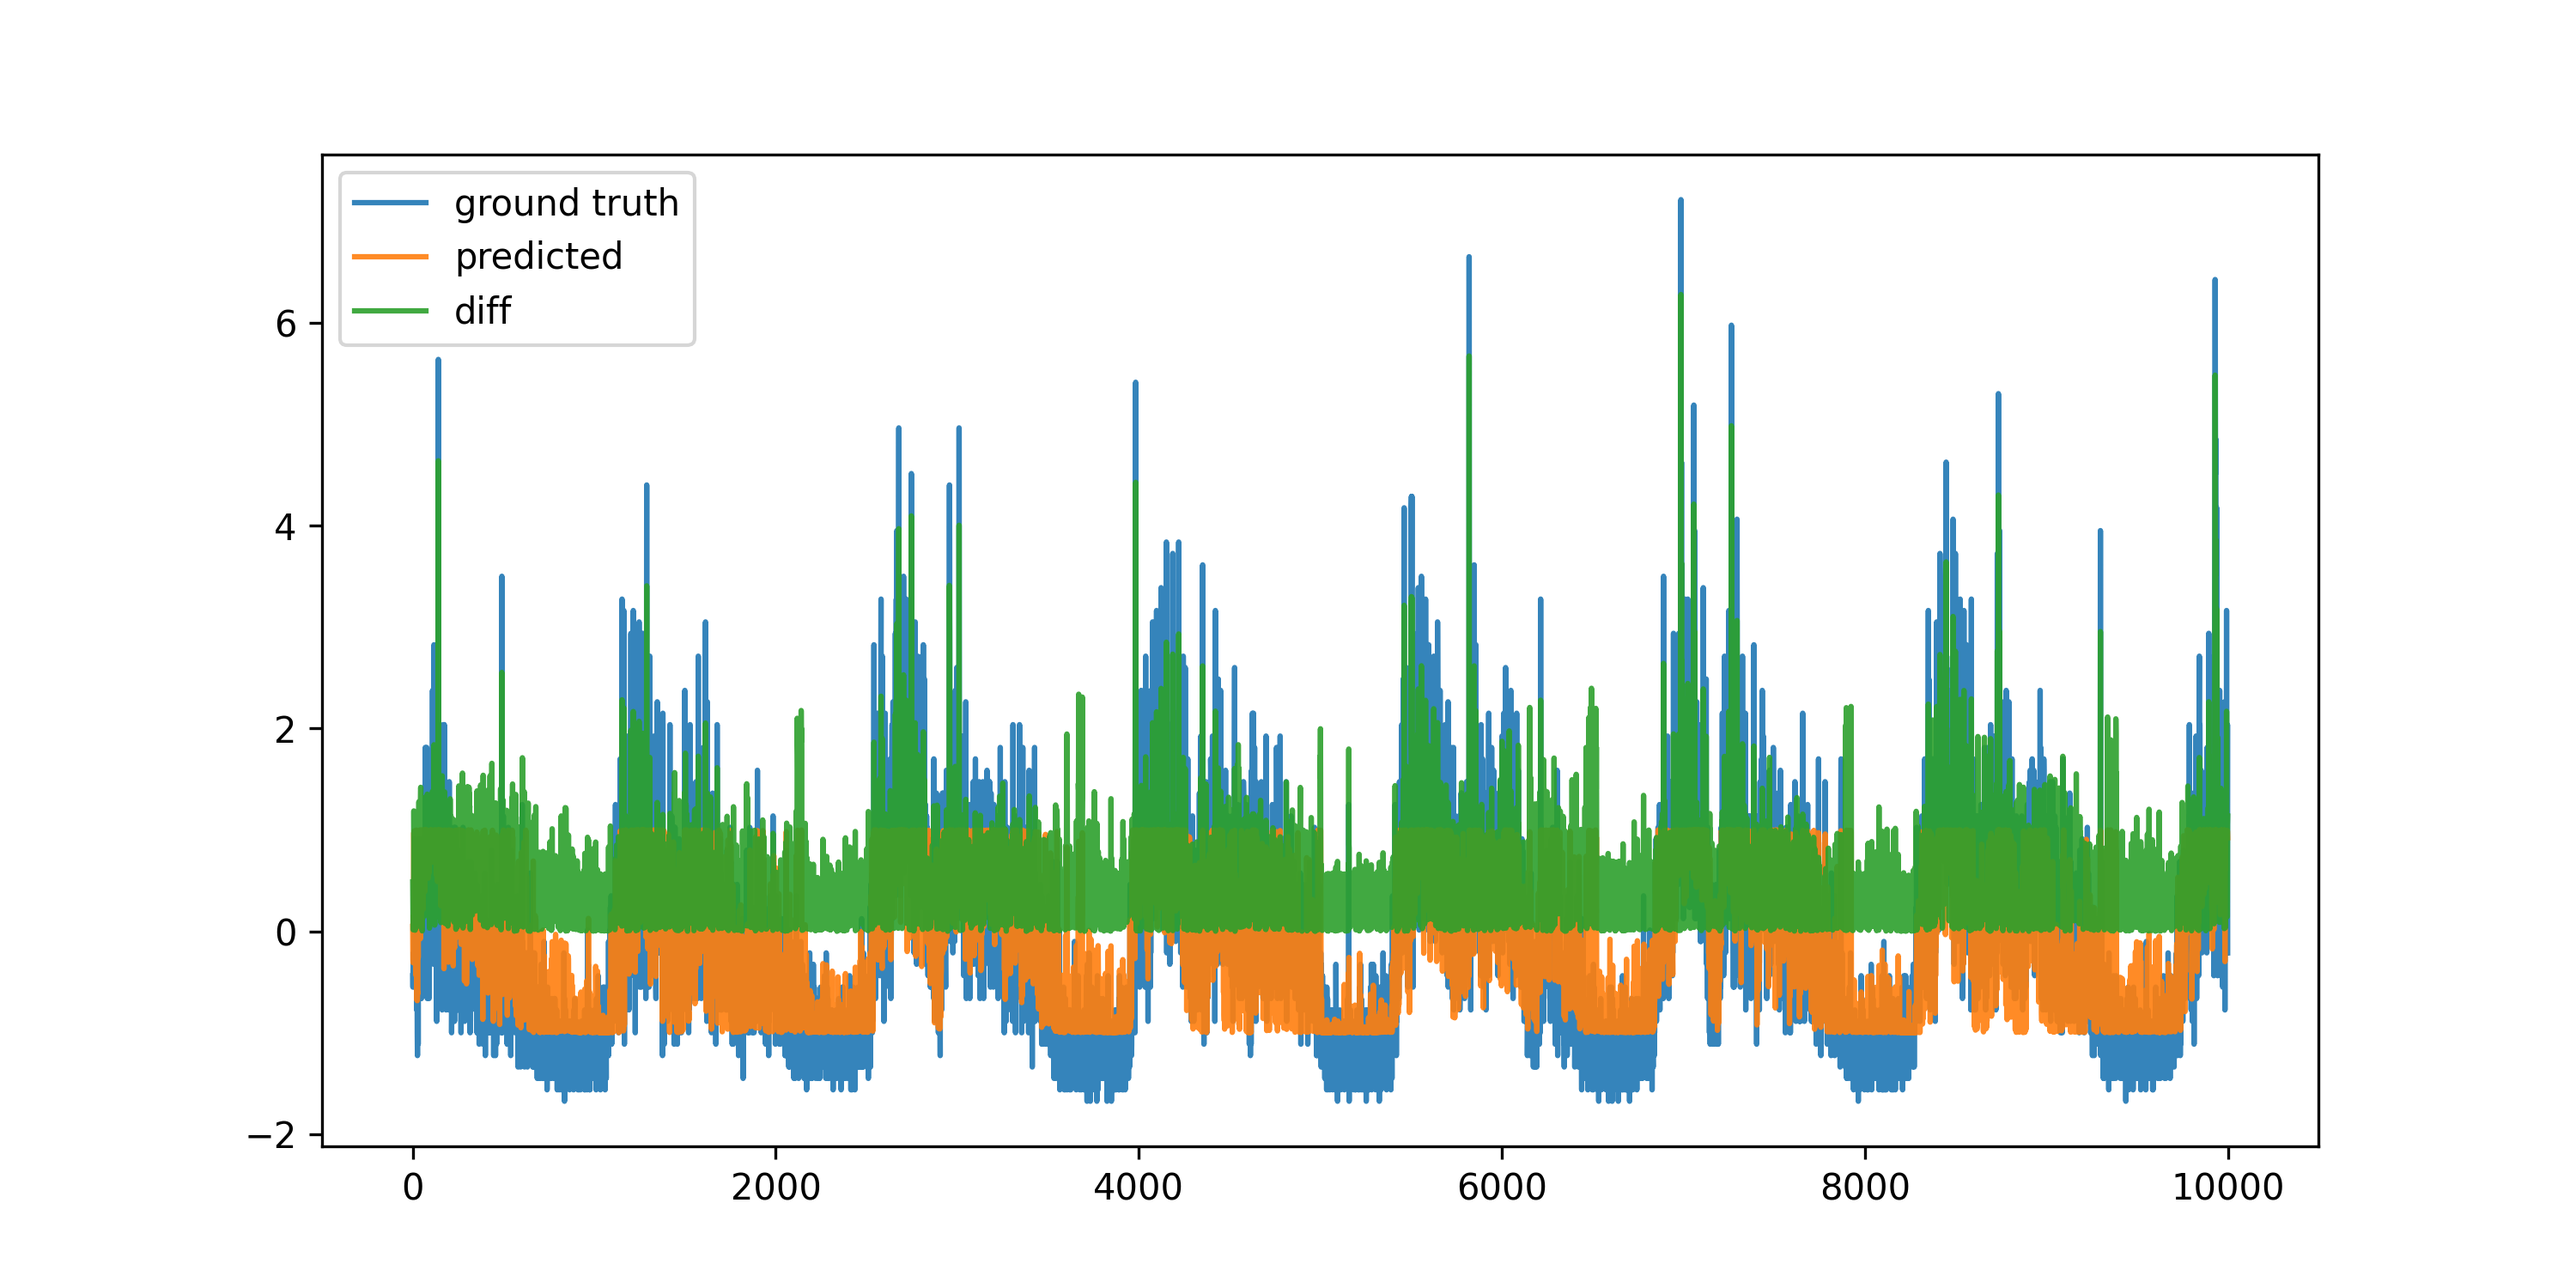
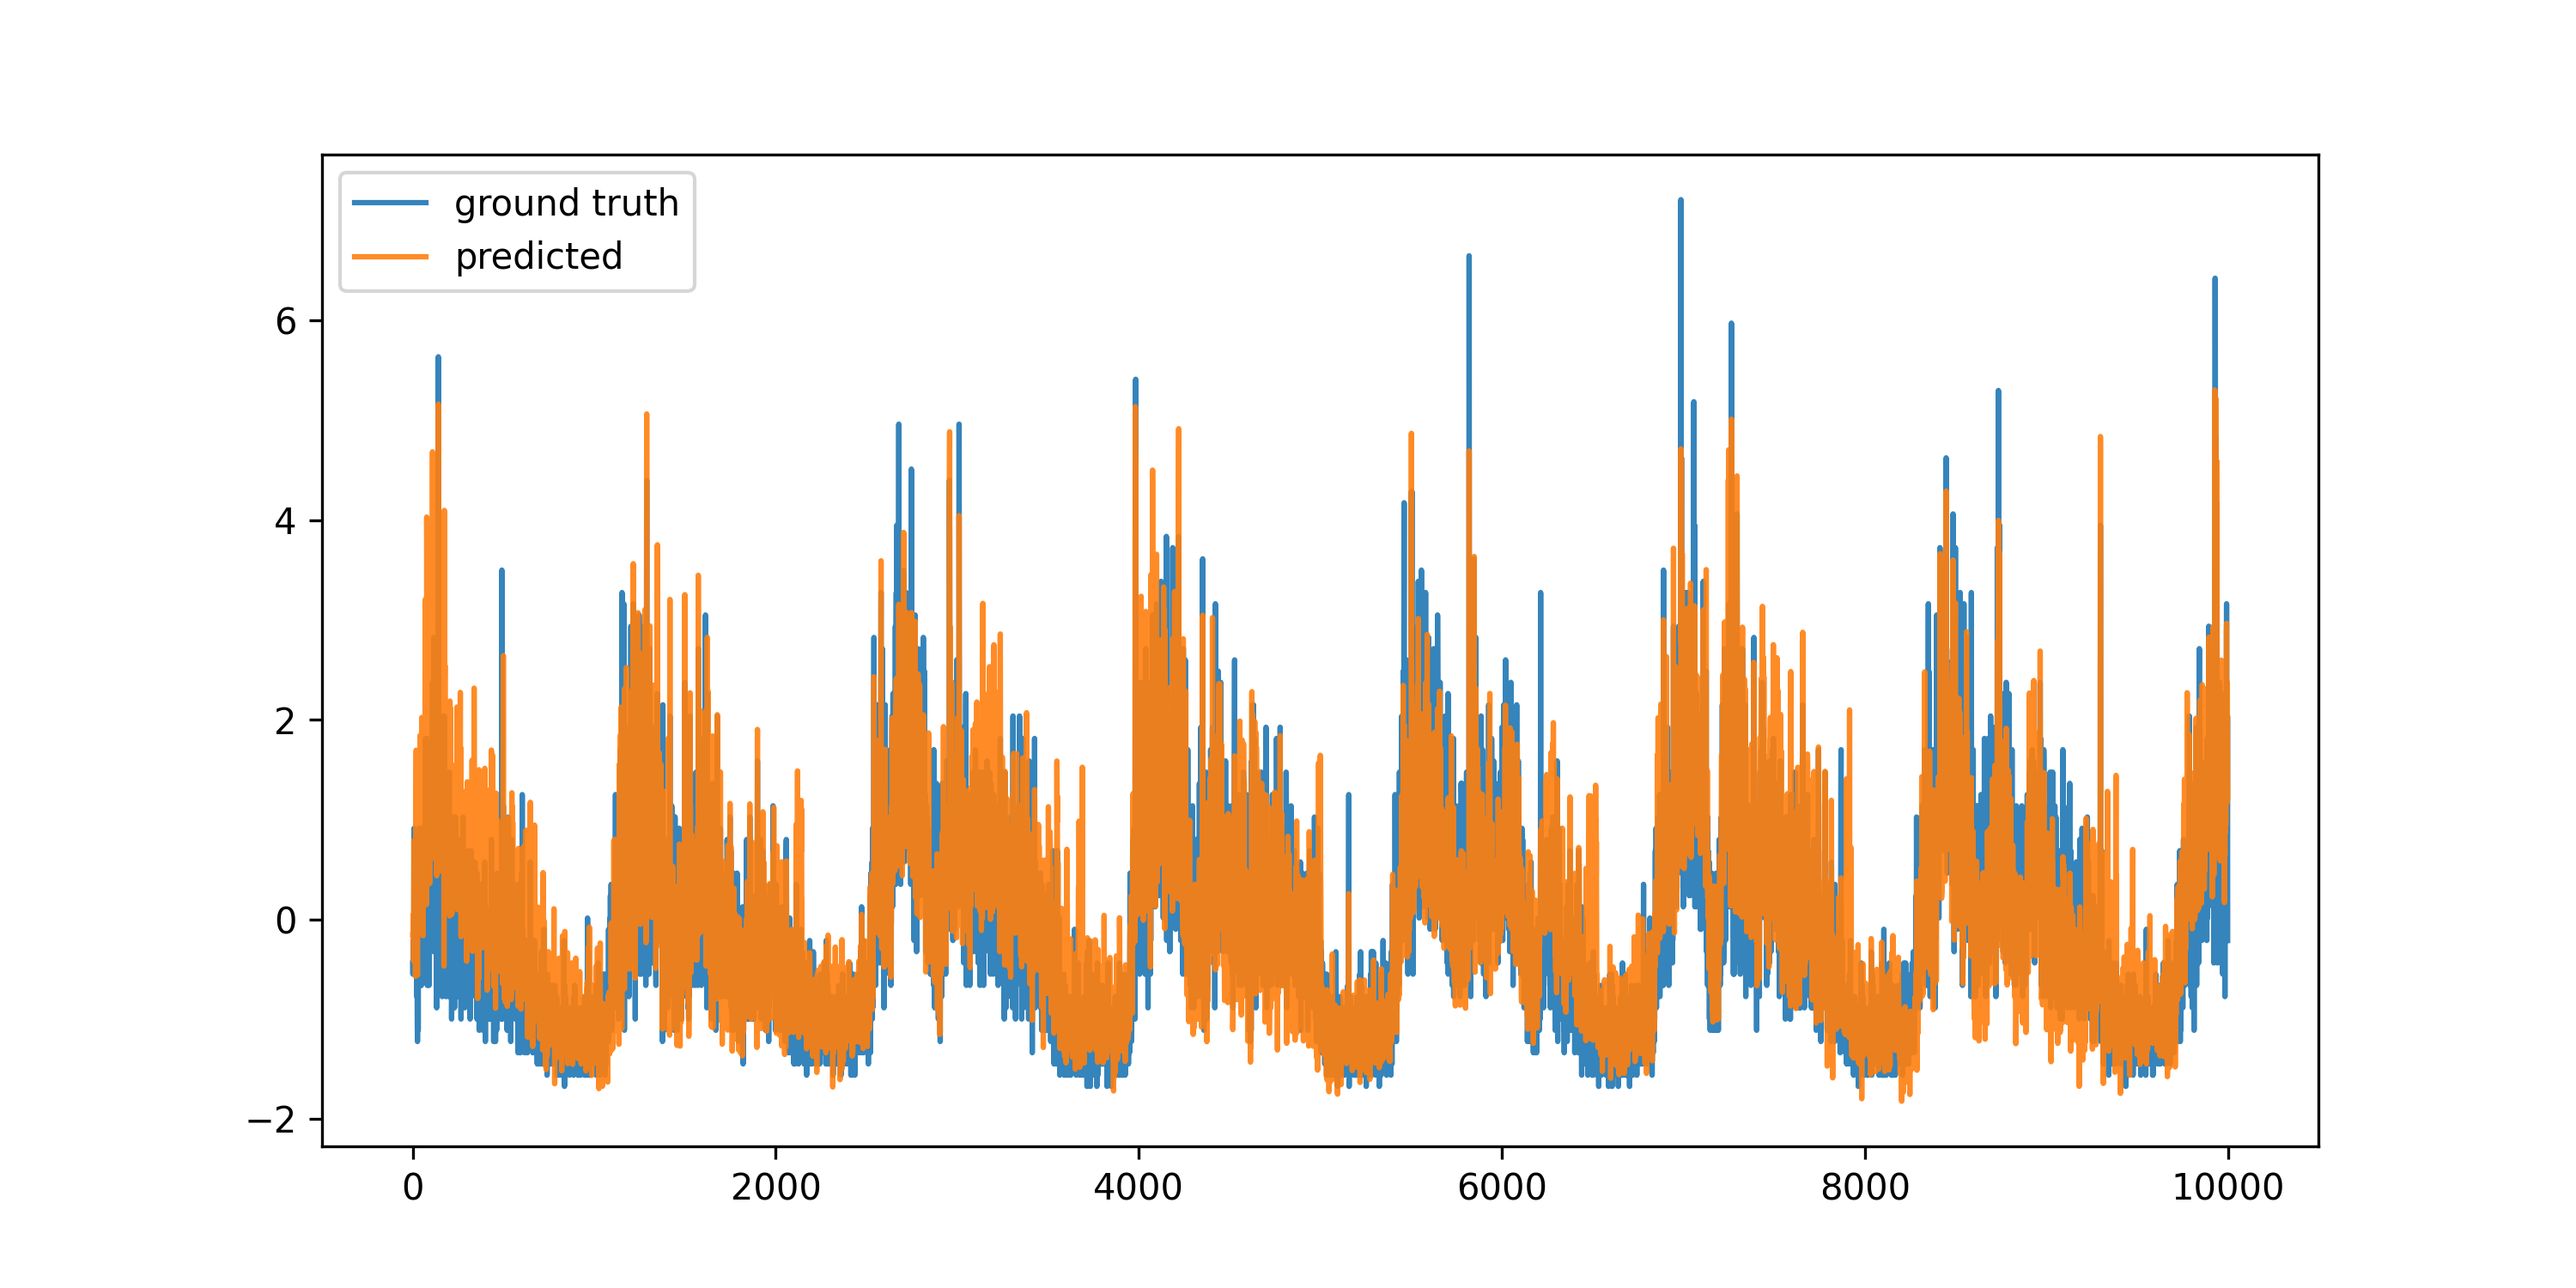
no comment

diff --git a/main.py b/main.py
@@ -33,6 +33,7 @@ parser.add_argument('--model', default='vae', type=str)
 parser.add_argument('--kl_weight', default=1., type=float)
 parser.add_argument('--draw_length', default=100, type=int)
 parser.add_argument('--draw_dim', default=0, type=int)
+parser.add_argument('--draw_diff',action='store_true')
 args = parser.parse_args()
 
 num_train_samples = args.num_train_samples
@@ -55,6 +56,8 @@ normalize_data = args.normalize_data
 which_model = args.model
 kl_weight = args.kl_weight
 draw_length = args.draw_length
+draw_dim = args.draw_dim
+draw_diff=args.draw_diff
 
 train_file = 'machine-2-1.train.pkl'
 test_file = 'machine-2-1.test.pkl'
@@ -170,10 +173,10 @@ recon_list = recon_list[1:]
 print(recon_list.shape)
 length = draw_length
 if which_model == 'lstmvae':
-    y1 = test_set[:length, -1, 0]
+    y1 = test_set[:length, -1, draw_dim]
 else:
-    y1 = test_set[:length, 0]
-y2 = recon_list[:length, 0]
+    y1 = test_set[:length, draw_dim]
+y2 = recon_list[:length, draw_dim]
 x = np.arange(y1.shape[0])
 diff = np.abs(y1 - y2)
 if which_model == 'lstmvae':
@@ -185,7 +188,8 @@ plt.figure(dpi=300, figsize=(10, 5))
 ap = .9
 plt.plot(x, y1, label='ground truth', alpha=ap)
 plt.plot(x, y2, label='predicted', alpha=ap)
-plt.plot(x, diff, label='diff', alpha=ap)
+if draw_diff:
+    plt.plot(x, diff, label='diff', alpha=ap)
 # plt.plot(x, mse, label='mse', alpha=ap)
 plt.legend()
 plt.savefig('plot.png', format='png')

diff --git a/VAE.py b/VAE.py
@@ -43,7 +43,7 @@ class VAE(nn.Module):
             # nn.ReLU(),
             nn.Tanh(),
             nn.Linear(neuron_list[0], input_size),
-            nn.Tanh(),
+            # nn.Tanh(),
             # nn.Sigmoid(),
         )
 
